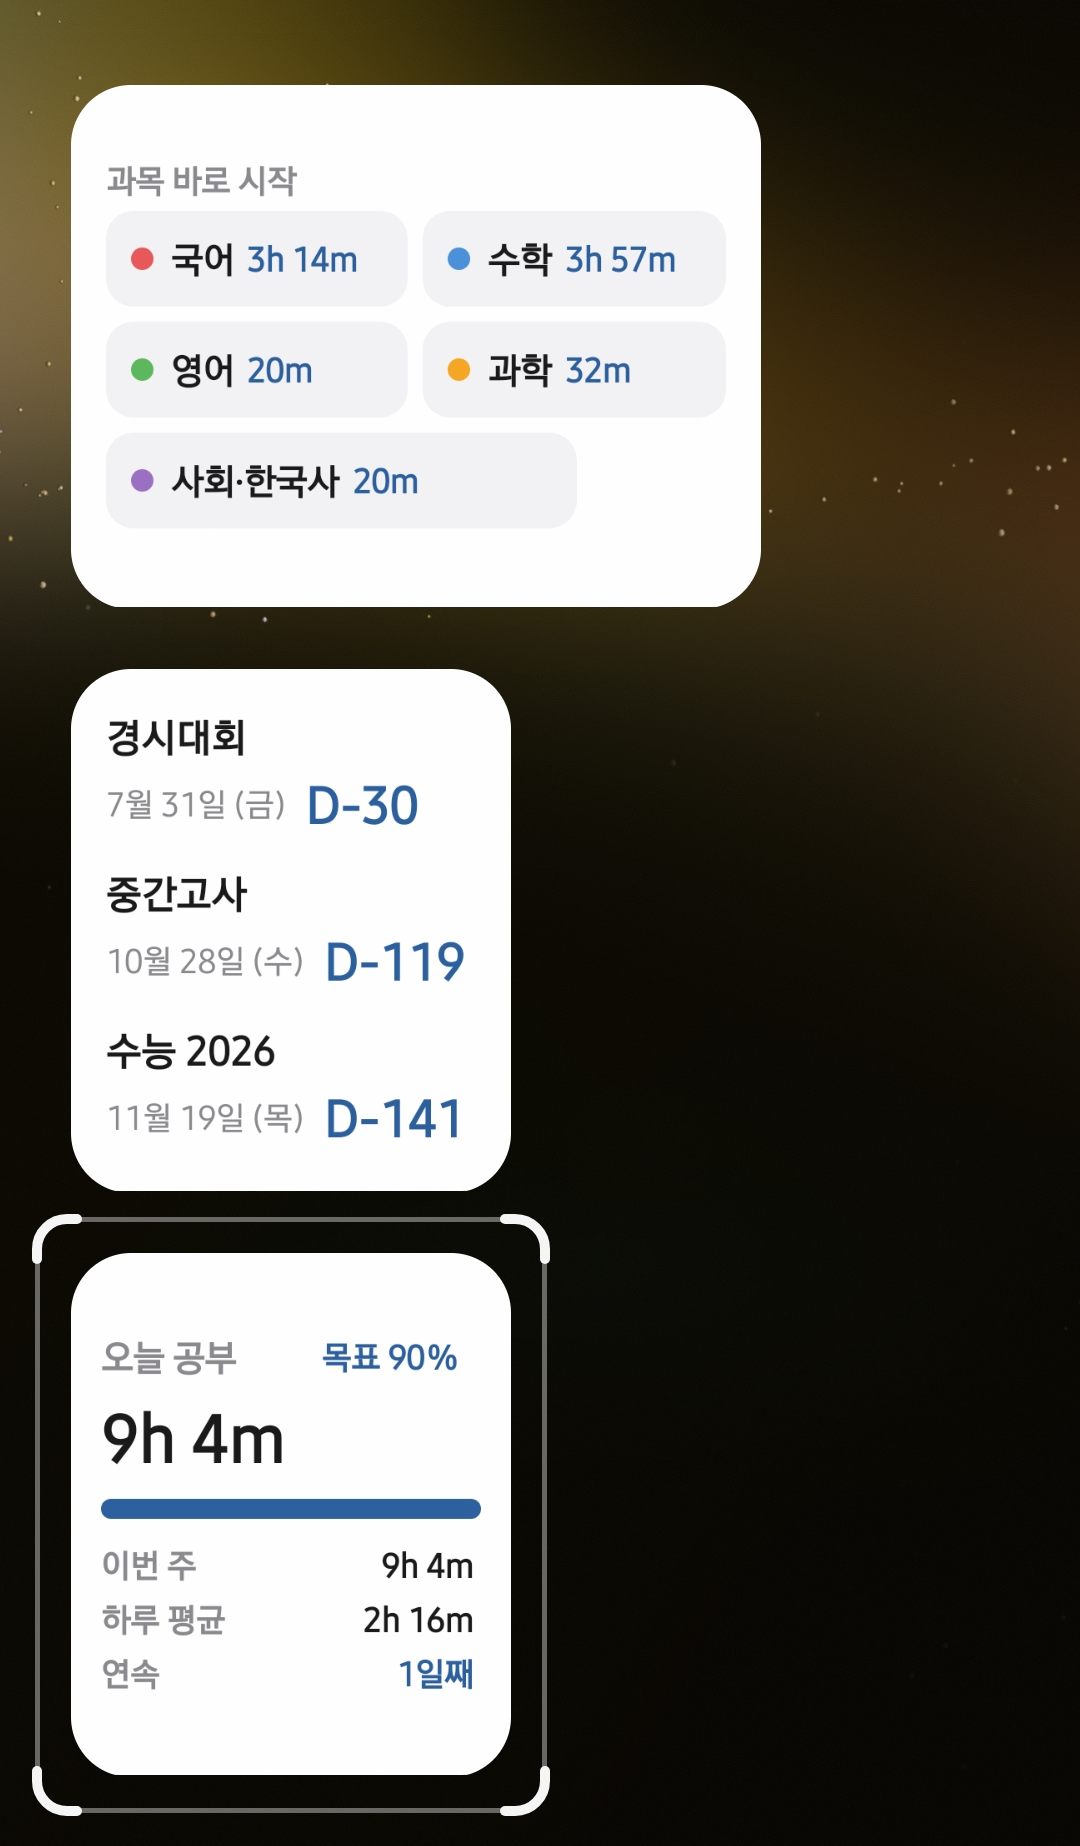
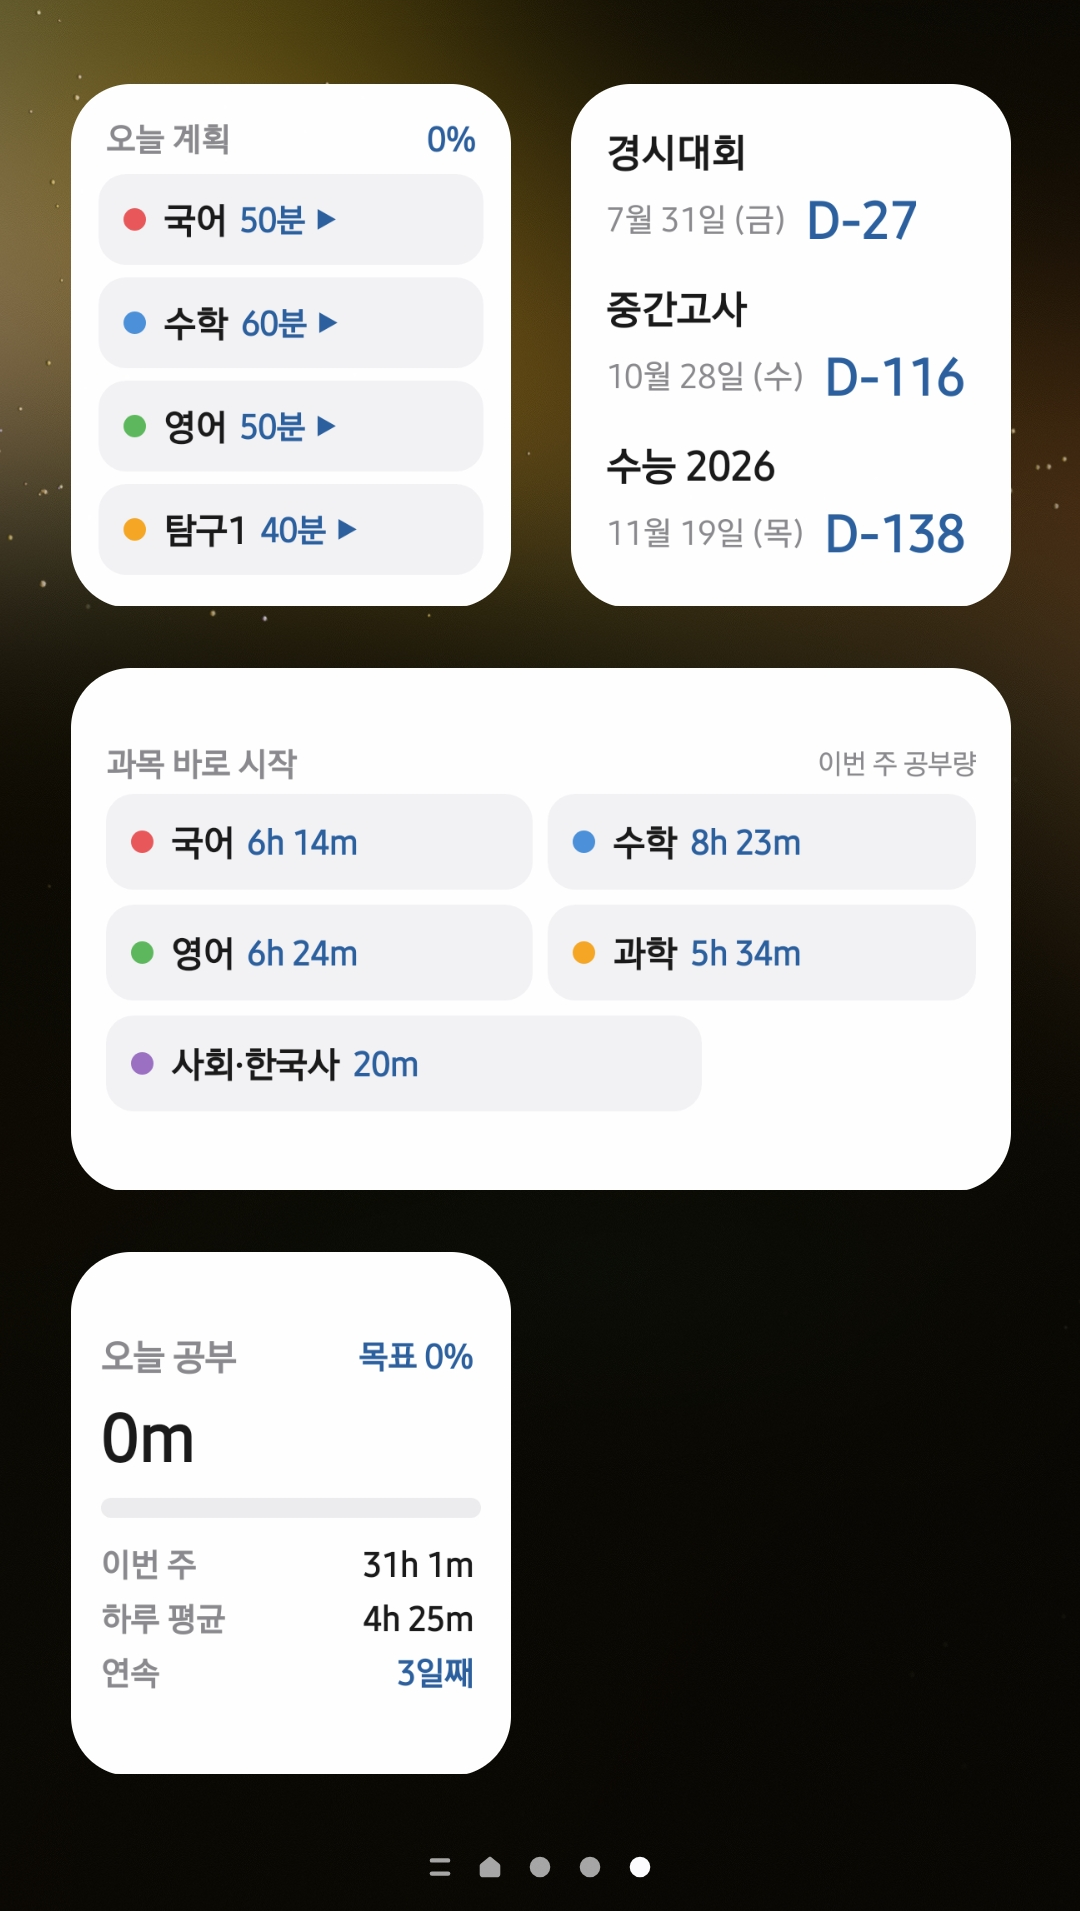
웹사이트: 안드로이드 위젯 스크린샷 교체 + 캐시 우회 쿼리

diff --git a/index.html b/index.html
@@ -444,7 +444,7 @@
   <div class="gallery-scroll">
     <img src="screenshots/ios_lockscreen.jpg" alt="iOS 잠금화면 위젯 — 공부 시간 실시간 카운팅과 수능 D-Day" loading="lazy">
     <img src="screenshots/ios_widgets_home.jpg" alt="iOS 홈 화면 위젯 4종 — 실시간 오늘 공부·D-Day·오늘 계획·과목 바로 시작" loading="lazy">
-    <img src="screenshots/widget_home.png" alt="안드로이드 홈 화면 위젯 — 오늘 공부·D-Day·과목 바로 시작" loading="lazy">
+    <img src="screenshots/widget_home.png?v=2" alt="안드로이드 홈 화면 위젯 — 오늘 공부·D-Day·과목 바로 시작" loading="lazy">
     <img src="screenshots/store_08.png" alt="오늘의 계획과 할 일을 한 화면에" loading="lazy">
     <img src="screenshots/store_07.png" alt="원형 타이머와 집중 사운드 10종" loading="lazy">
     <img src="screenshots/store_01.png" alt="집중 잠금과 이탈 챌린지 모드" loading="lazy">